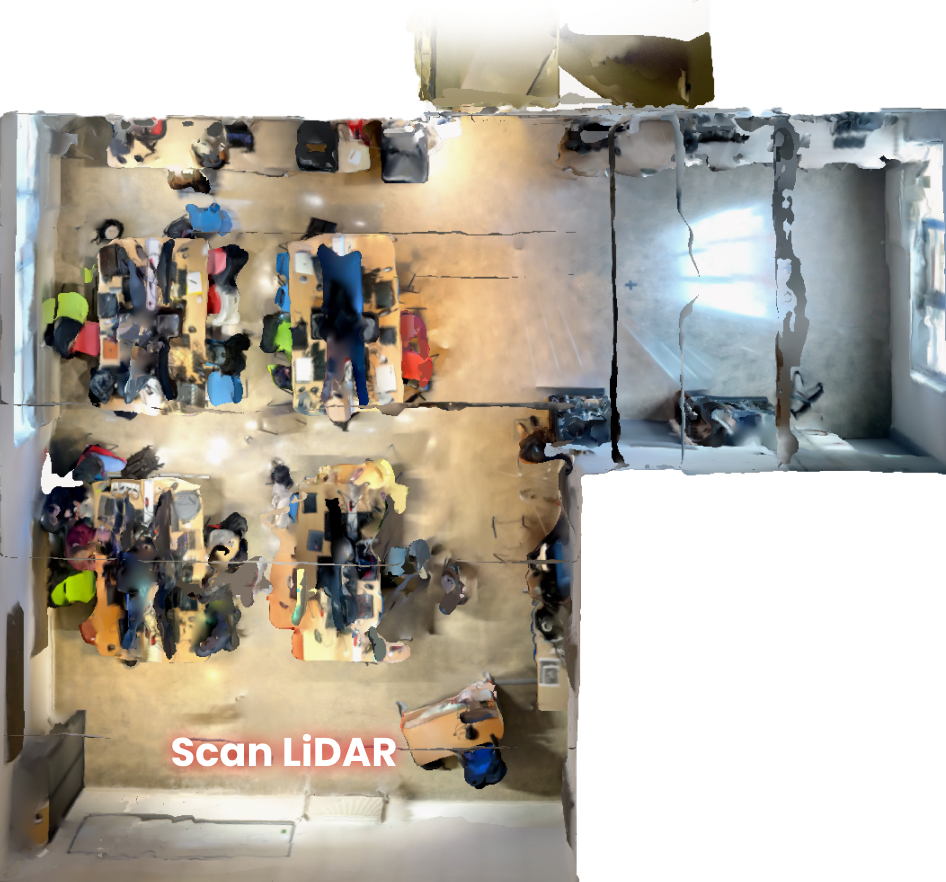
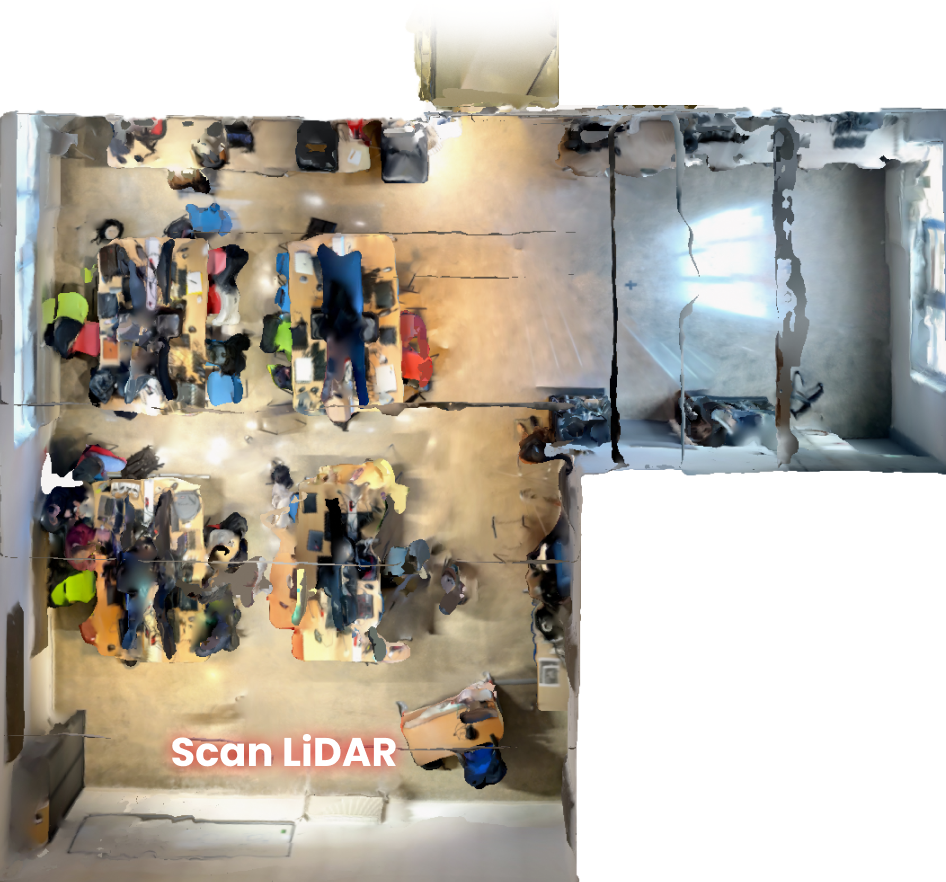
fix : png map lidar

Changed region(s): [[0.5825, 0.0306, 0.7664, 0.1224]]

diff --git a/src/componants/Conception/Conception.jsx b/src/componants/Conception/Conception.jsx
@@ -57,7 +57,7 @@ export function Conception() {
               <div class={styles.image__container}>
                 <img
                   className={`${styles.image__after} ${styles.slider__image}`}
-                  src="images/scan-lidar.webp"
+                  src="images/scan-lidar.png"
                   alt="black and white"
                 />
                 <img
